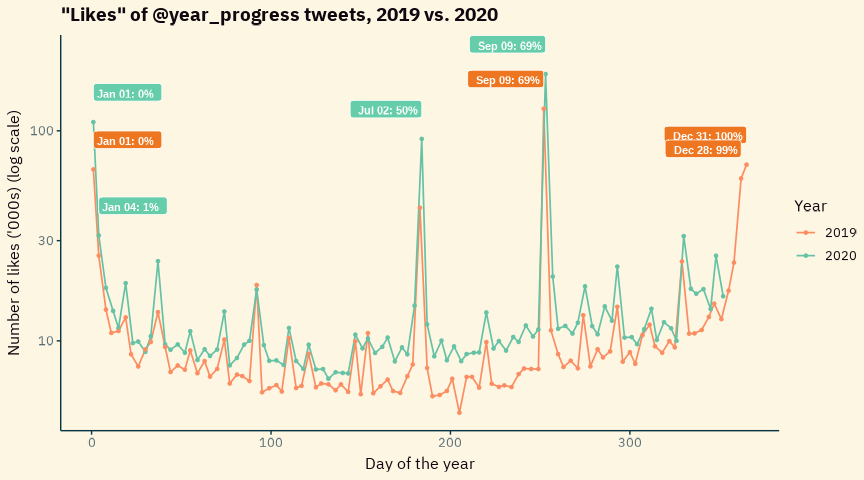
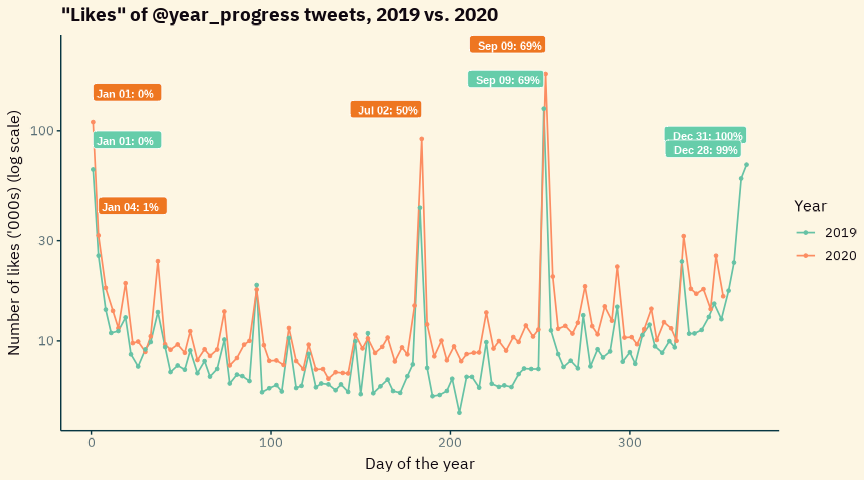
Add final discussion text and fix previous reversal of year colours

diff --git a/README.md b/README.md
@@ -56,14 +56,13 @@ would be correct.
 # It isn't going to change, so once obtained just hardcode it:
 year_progress_id <- "3233484298"
 
-start_2019 <- "2019-01-01T00:00:02Z"
-
 # This doesn't work with the Twitter API
 # https://github.com/tidyverse/lubridate/issues/941
-# 
 # start_2019 <- lubridate::make_datetime(2019) %>% 
 #   lubridate::format_ISO8601(usetz = TRUE)
+# so instead:
 
+start_2019 <- "2019-01-01T00:00:02Z"
 
 # see `R/get_user_twetes.R` for how this works
 dtf <- get_user_twetes(user_id = year_progress_id, start = start_2019) %>%
@@ -104,17 +103,16 @@ visualising.
 ``` r
 dtf2 <- dtf %>% 
   # filter out any "normal" tweets!
-  filter(stringr::str_detect(text, "^(\u2591|\u2593)+")) %>% 
-  mutate(pcnt = as.numeric(stringr::str_extract(text, "[0-9]+"))) %>% 
+  filter(str_detect(text, "^(\u2591|\u2593)+")) %>% 
+  mutate(pcnt = as.numeric(str_extract(text, "[0-9]+"))) %>% 
   mutate(date_tweeted = case_when(
     # 100% tweets get tweeted just _after_ midnight on 1st Jan: need correcting
     # Be better here to check *if* date == January 1 but OK for now
-    pcnt == 100 ~ lubridate::as_date(created_at) - lubridate::period(1, "days"),
-    TRUE ~ lubridate::as_date(created_at)
-  )) %>% 
-  mutate(year = lubridate::year(date_tweeted)) %>% 
-  mutate(yday = lubridate::yday(date_tweeted)) %>% 
-  mutate(wkdy = weekdays(lubridate::as_date(date_tweeted))) %>% 
+    pcnt == 100 ~ as_date(created_at) - period(1, "days"),
+    TRUE ~ as_date(created_at))) %>% 
+  mutate(year = year(date_tweeted)) %>% 
+  mutate(yday = yday(date_tweeted)) %>% 
+  mutate(wkdy = weekdays(as_date(date_tweeted))) %>% 
   mutate(across(c(year, wkdy), ~ as.factor(.)))
 ```
 
@@ -124,7 +122,7 @@ Let’s look at how retweets vary through the year:
 dtf2 %>% 
   filter(year == 2019) %>% 
   slice_max(n = 4, order_by = retweet_count) %>% 
-  mutate(label = glue::glue("{format(date_tweeted, '%b %d')}: {pcnt}%")) %>% 
+  mutate(label = str_glue("{format(date_tweeted, '%b %d')}: {pcnt}%")) %>% 
   left_join(dtf2, .) %>% 
   ggplot(aes(yday, retweet_count)) +
   geom_line(aes(colour = year), size = 0.6, alpha = 1,) +
@@ -166,14 +164,13 @@ Let’s see if the numbers of likes for each tweet show a similar pattern
 dtf3 <- dtf2 %>% 
   filter(year == 2019) %>% 
   slice_max(n = 4, order_by = like_count) %>% 
-  mutate(label_2019 = glue::glue(
-    "{format(date_tweeted, '%b %d')}: {pcnt}%")) %>% 
+  mutate(label_2019 = str_glue("{format(date_tweeted, '%b %d')}: {pcnt}%")) %>% 
   left_join(dtf2, .)
+
 dtf3 %>% 
   filter(year == 2020) %>% 
   slice_max(n = 4, order_by = like_count) %>% 
-  mutate(label_2020 = glue::glue(
-    "{format(date_tweeted, '%b %d')}: {pcnt}%")) %>% 
+  mutate(label_2020 = str_glue("{format(date_tweeted, '%b %d')}: {pcnt}%")) %>% 
   left_join(dtf3, .) %>% 
   mutate(like_count = like_count/1000) %>% 
   ggplot(aes(yday, like_count)) +
@@ -184,8 +181,7 @@ dtf3 %>%
     vjust = "outward",
     hjust = "inward",
     nudge_y = 0.1,
-    fill = "chocolate2",
-    # fill = "sienna1",
+    fill = "aquamarine3",
     colour = "white",
     size = 3,
     fontface = "bold") +
@@ -194,11 +190,11 @@ dtf3 %>%
     vjust = "outward",
     hjust = "inward",
     nudge_y = 0.1,
-    fill = "aquamarine3",
+    fill = "chocolate2",
     colour = "white",
     size = 3,
     fontface = "bold") +
-  scale_colour_brewer("Year", palette = "Set2", direction = -1) +
+  scale_colour_brewer("Year", palette = "Set2") +
   scale_y_log10() +
   labs(
     x = "Day of the year",
@@ -215,14 +211,13 @@ And quote tweets:
 dtf3 <- dtf2 %>% 
   filter(year == 2019) %>% 
   slice_max(n = 4, order_by = quote_count) %>% 
-  mutate(label_2019 = glue::glue(
-    "{format(date_tweeted, '%b %d')}: {pcnt}%")) %>% 
+  mutate(label_2019 = str_glue("{format(date_tweeted, '%b %d')}: {pcnt}%")) %>% 
   left_join(dtf2, .)
+
 dtf3 %>% 
   filter(year == 2020) %>% 
   slice_max(n = 4, order_by = quote_count) %>% 
-  mutate(label_2020 = glue::glue(
-    "{format(date_tweeted, '%b %d')}: {pcnt}%")) %>% 
+  mutate(label_2020 = str_glue("{format(date_tweeted, '%b %d')}: {pcnt}%")) %>% 
   left_join(dtf3, .) %>% 
   # mutate(quote_count = quote_count/1000) %>% 
   ggplot(aes(yday, quote_count)) +
@@ -233,8 +228,7 @@ dtf3 %>%
     vjust = "outward",
     hjust = "inward",
     nudge_y = 0.1,
-    fill = "chocolate2",
-    # fill = "sienna1",
+    fill = "aquamarine3",
     colour = "white",
     size = 3,
     fontface = "bold") +
@@ -243,11 +237,11 @@ dtf3 %>%
     vjust = "outward",
     hjust = "inward",
     nudge_y = 0.1,
-    fill = "aquamarine3",
+    fill = "chocolate2",
     colour = "white",
     size = 3,
     fontface = "bold") +
-  scale_colour_brewer("Year", palette = "Set2", direction = -1) +
+  scale_colour_brewer("Year", palette = "Set2") +
   scale_y_log10() +
   labs(
     x = "Day of the year",
@@ -257,5 +251,17 @@ dtf3 %>%
 ```
 
 <img src="man/figures/README-plot-quotes-1.png" width="100%" />
+
+Now, am I imagining it, or is there a much higher proportional
+difference between 2019 and 2020 when it comes to the QTs, than was
+visible with the RTs and the Likes? From about day 80? There’s some
+quite big gaps in there between the two lines, particularly if you look
+at the period between day 80 and day 200. 2020 never drops down below
+100 QTs for any tweet like 2019 did.
+
+The gap is a bit less noticeable in the 70-percents, around day 270-280,
+when 2019’s figures start to pick up as the end of the year approaches.
+Again, some of this may just be a factor of more people following the
+account, and RTs and QTs generate more follows and so it goes round.
 
 </div>
